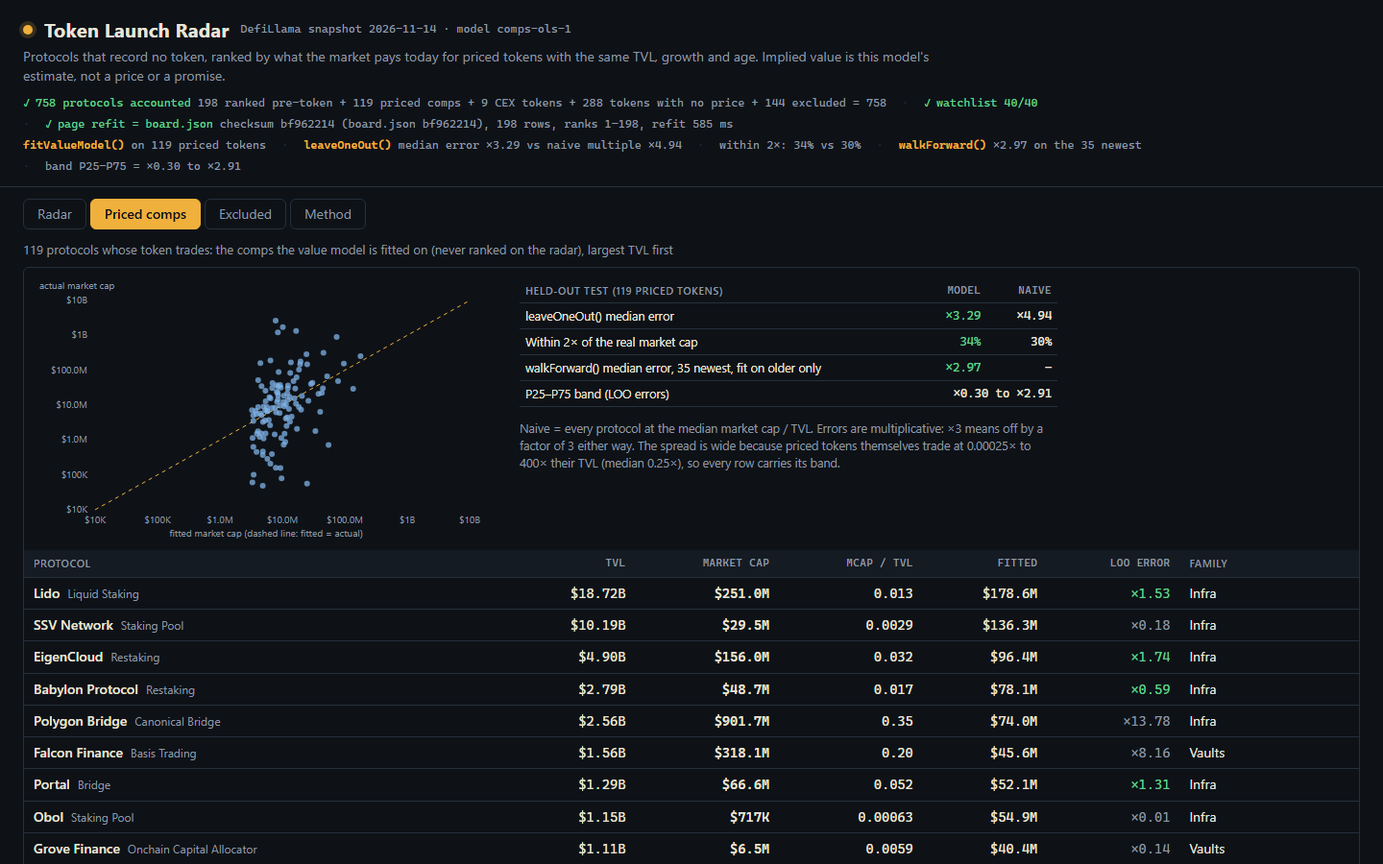
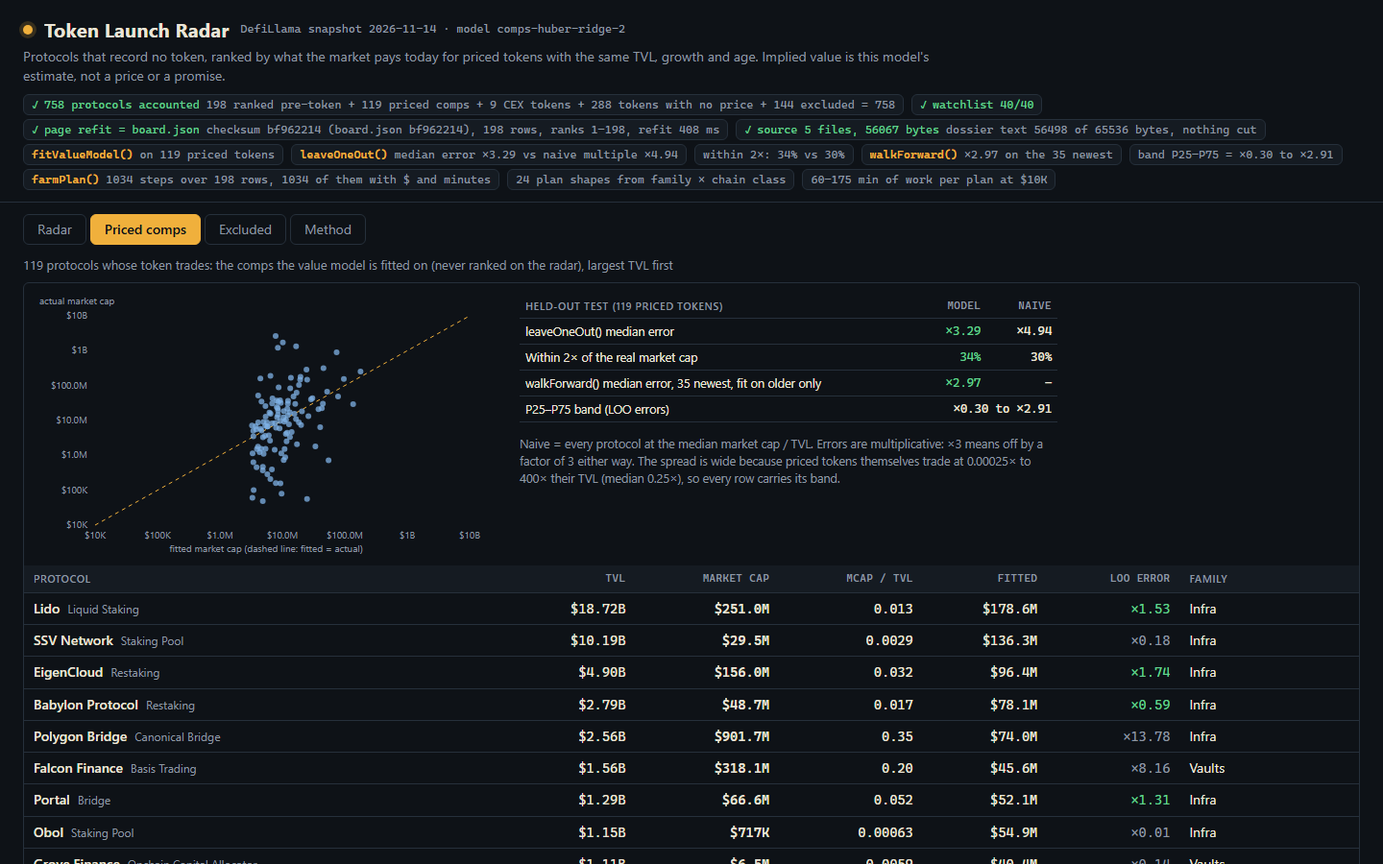
v2: farm plans by family and chain class, plan census strip, printed source-size proof; truth fixes (valueTerms heading, model label, chain-specific steps)

diff --git a/dashboard/b-farm.js b/dashboard/b-farm.js
@@ -1,83 +1,115 @@
-// b-farm.js: the farm planner. farmPlan(row, deposit) turns one radar row into six costed steps
-// (dollars and minutes each), an expected drop, a net, a break-even deposit and a verdict.
+// b-farm.js: the farm planner. farmPlan(row, deposit) builds one plan per protocol from two things the
+// snapshot gives: its family (from the category) and the chain class of its cheapest chain. Every step
+// carries dollars and minutes; the plan ends in an expected drop, a net, a break-even and a verdict.
 //
-// The snapshot holds no gas prices, no airdrop sizes and no season lengths, so those are ASSUMPTIONS,
-// named here, printed on the page, and the same for every protocol:
-//   GAS_USD        cost of one transaction per chain (the plan farms on the cheapest chain the row lists)
-//   FUND_USD       exchange withdrawal fee to get USDC onto that chain (and the same to leave)
-//   SEASON_DAYS    the points season the plan holds through (90 days, one action a week)
-//   FARMER_SHARE   share of the token's value that goes to depositors (5%)
-//   expected drop  = deposit / (TVL + deposit) x implied value x FARMER_SHARE x token odds
-//   HOUR_USD       your time ($20/h): cost = cash (gas + fees) + minutes / 60 x HOUR_USD
-//   net            = expected drop - cost;  break-even deposit = cost x TVL / (K - cost), K = value x share x odds
-//   verdict        Farm when the drop is at least 2x the cost, Marginal when it covers the cost, Skip otherwise.
+// Chain class -> how money gets in:     evm: approve + deposit (2 transactions)
+//   onetx: one signed transaction (Solana, Sui, Aptos, Starknet...)   ledger: add a USDC trustline first
+//   hl: USDC goes in through Hyperliquid's bridge from Arbitrum     btc: the position is BTC, not USDC
+//   app: any other chain: the protocol's own deposit flow (1 transaction at the default gas)
+// Family -> what keeps the position counted:
+//   Trading: weekly volume (perps: open + close a hedged pair; DEX: rebalance the LP range)
+//   Lending, Vaults, RWA & stables: balance held for the season, checked monthly
+//   Infra: the chain's own asset staked; unstaking waits the protocol's stated unbonding period
+//
+// ASSUMPTIONS (not in the snapshot; the same for every row, printed on the page):
+//   GAS_USD per chain, SEASON_DAYS 90, FARMER_SHARE 5% of the token's value to depositors,
+//   HOUR_USD $20 for your time, PERP_FEE 0.05% taker, SWAP_FEE 0.3%.
+//   expected drop = deposit / (TVL + deposit) x implied value x FARMER_SHARE x token odds
+//   cost = cash + minutes / 60 x HOUR_USD;  net = drop - cost;  break-even = cost x TVL / (K - cost)
+//   verdict: Farm when drop >= 2x cost, Marginal when drop >= cost, else Skip.
 (function (root) {
   'use strict';
 
   const GAS_USD = {
     Ethereum: 2.5, Bitcoin: 3, Tron: 1.5, Binance: 0.1, BSC: 0.1, Polygon: 0.02, Avalanche: 0.05, Solana: 0.01,
-    Sui: 0.01, Aptos: 0.01, TON: 0.05, Sonic: 0.02, Hyperliquid: 0.02, 'Hyperliquid L1': 0.02, Stellar: 0.01, Near: 0.01,
+    Sui: 0.01, Aptos: 0.01, TON: 0.05, Sonic: 0.02, 'Hyperliquid L1': 0.02, Stellar: 0.01, Near: 0.01,
     Arbitrum: 0.05, Base: 0.03, 'OP Mainnet': 0.05, Optimism: 0.05, Linea: 0.05, Scroll: 0.05, 'zkSync Era': 0.05, Blast: 0.05,
     Mantle: 0.05, Ink: 0.03, Unichain: 0.03, Katana: 0.03, Plasma: 0.02, Berachain: 0.03, Monad: 0.02, MegaETH: 0.02,
     Sei: 0.01, Celo: 0.01, Fantom: 0.01, xDai: 0.01, Gnosis: 0.01, Kava: 0.01, Flare: 0.01, Ripple: 0.01, Cardano: 0.2,
     Cronos: 0.05, Hemi: 0.05, Metis: 0.05, Moonbeam: 0.02, 'Robinhood Chain': 0.03, Arc: 0.02, 'X Layer': 0.02,
-    'Plume Mainnet': 0.02, Starknet: 0.05, Doge: 0.5, Litecoin: 0.05,
+    'Plume Mainnet': 0.02, Starknet: 0.05, Doge: 0.5, Litecoin: 0.05, Algorand: 0.01, Stacks: 0.5,
   };
-  const DEFAULT_GAS = 0.3;        // a chain not in the table
-  const FUND_USD = (chain) => (chain === 'Ethereum' || chain === 'Bitcoin' ? 4 : 1);
-  const SEASON_DAYS = 90, WEEKS = Math.round(SEASON_DAYS / 7);
-  const FARMER_SHARE = 0.05;
-  const HOUR_USD = 20;            // your time, priced into the cost: 125 minutes of work is not free
-  const PERP_FEE = 0.0005, SWAP_FEE = 0.003; // taker fee on weekly perp volume; swap fee to enter an LP
+  const EVM = new Set(['Ethereum', 'Binance', 'BSC', 'Polygon', 'Avalanche', 'Sonic', 'Arbitrum', 'Base', 'OP Mainnet', 'Optimism',
+    'Linea', 'Scroll', 'zkSync Era', 'Blast', 'Mantle', 'Ink', 'Unichain', 'Katana', 'Plasma', 'Berachain', 'Monad', 'MegaETH',
+    'Sei', 'Celo', 'Fantom', 'xDai', 'Gnosis', 'Flare', 'Cronos', 'Hemi', 'Metis', 'Moonbeam', 'Robinhood Chain', 'Arc', 'X Layer',
+    'Plume Mainnet', 'Manta', 'Ronin', 'Klaytn', 'RISE', 'Tempo', 'Reya Network', 'Fluent', 'CORE', 'RSK', 'BSquared', 'Mezo']);
+  const ONETX = new Set(['Solana', 'Sui', 'Aptos', 'TON', 'Near', 'Starknet', 'Tron']);
+  const LEDGER = new Set(['Stellar', 'Ripple', 'Algorand']);
+  const BTC_CHAINS = new Set(['Bitcoin', 'Stacks']);
+  const BTC_CATEGORIES = new Set(['Anchor BTC', 'Decentralized BTC', 'Restaked BTC']);
+  const DEFAULT_GAS = 0.3;
+  const SEASON_DAYS = 90, WEEKS = 13, MONTHS = 3;
+  const FARMER_SHARE = 0.05, HOUR_USD = 20, PERP_FEE = 0.0005, SWAP_FEE = 0.003;
   const DEFAULT_DEPOSIT = 10000;
 
-  const gasOf = (chain) => (chain in GAS_USD ? GAS_USD[chain] : DEFAULT_GAS);
+  const gasOf = (c) => (c in GAS_USD ? GAS_USD[c] : DEFAULT_GAS);
+  const classOf = (c) => (c === 'Hyperliquid L1' ? 'hl' : EVM.has(c) ? 'evm' : ONETX.has(c) ? 'onetx' : LEDGER.has(c) ? 'ledger' : BTC_CHAINS.has(c) ? 'btc' : 'app');
 
   // The cheapest chain the protocol lists (ties: the one it lists first).
   function cheapestChain(chains) {
-    if (!chains || chains.length === 0) return { chain: 'its main chain', gas: DEFAULT_GAS };
+    if (!chains || chains.length === 0) return { chain: 'its main chain', gas: DEFAULT_GAS, cls: 'app' };
     let best = chains[0];
     chains.forEach((c) => { if (gasOf(c) < gasOf(best)) best = c; });
-    return { chain: best, gas: gasOf(best) };
+    return { chain: best, gas: gasOf(best), cls: classOf(best) };
   }
 
   // No toLocaleString: main.ts and the browser must print the same bytes whatever the locale.
   const usd = (n) => '$' + (n >= 100 ? String(Math.round(n)).replace(/\B(?=(\d{3})+(?!\d))/g, ',') : n.toFixed(2));
 
-  // The family's entry action: what to do, and any fee beyond gas.
-  function entryAction(row, d, chain) {
-    const c = row.category || '', n = row.name;
-    if (row.family === 'Lending') return { text: `Supply ${usd(d)} USDC to ${n}'s main market on ${chain}; borrow nothing, so nothing can be liquidated.`, fee: 0 };
-    if (c === 'Dexs') return { text: `Swap half to the pool's other asset and add ${usd(d)} of liquidity to ${n}'s deepest USDC pool on ${chain}.`, fee: d / 2 * SWAP_FEE };
-    if (c === 'Derivatives') return { text: `Deposit ${usd(d)} USDC margin on ${n} (${chain}) and open a delta-neutral pair: a long and a short of equal size.`, fee: 0 };
-    if (row.family === 'Trading') return { text: `Deposit ${usd(d)} USDC into ${n} on ${chain} and make one trade.`, fee: 0 };
-    if (row.family === 'Vaults') return { text: `Deposit ${usd(d)} USDC into ${n}'s largest USDC vault on ${chain} and keep the vault shares.`, fee: 0 };
-    if (row.family === 'RWA & stables') return { text: `Mint or buy ${usd(d)} of ${n}'s yield-bearing asset with USDC on ${chain} and hold it.`, fee: 0 };
-    if (row.family === 'Infra') return { text: `Stake or deposit ${usd(d)} of the asset ${n} accepts on ${chain} and keep the receipt.`, fee: 0 };
-    return { text: `Deposit ${usd(d)} USDC into ${n}'s app on ${chain} and keep the position open.`, fee: 0 };
-  }
-
-  // farmPlan: one row, one deposit in, six steps out, each {step, do, usd, min}.
+  // farmPlan: one row and one deposit in; the plan's steps {step, do, usd, min}, totals and verdict out.
   function farmPlan(row, deposit) {
-    const d = deposit || DEFAULT_DEPOSIT, { chain, gas } = cheapestChain(row.chains), fund = FUND_USD(chain);
-    const entry = entryAction(row, d, chain);
-    const weekly = row.category === 'Derivatives' ? d * PERP_FEE * WEEKS : 0;
-    const steps = [
-      { step: 'Fund', do: `Withdraw ${usd(d)} USDC from an exchange to a fresh wallet on ${chain} (${row.chains.length > 1 ? `the cheapest of its ${row.chains.length} chains` : 'its only chain'}).`, usd: fund, min: 10 },
-      { step: 'Enter', do: entry.text + ' Two transactions: approve, then deposit.', usd: 2 * gas + entry.fee, min: 10 },
-      { step: 'Qualify', do: `Make one qualifying action a week for ${WEEKS} weeks (top up, claim or ${row.category === 'Derivatives' ? 'roll the pair once, volume = deposit' : 'restake'}), one transaction each.`, usd: WEEKS * gas + weekly, min: WEEKS * 5 },
-      { step: 'Track', do: `Check ${row.name}'s own points or rewards page once a month for the ${SEASON_DAYS}-day season and log the balance.`, usd: 0, min: 15 },
-      { step: 'Exit', do: `Withdraw the position and send the USDC back to the exchange.`, usd: 2 * gas + fund, min: 15 },
-      { step: 'Claim', do: `If a token is announced, claim only through the link on ${row.name}'s own site; never sign a transfer to claim.`, usd: gas, min: 10 },
-    ];
+    const d = deposit || DEFAULT_DEPOSIT, { chain, gas, cls } = cheapestChain(row.chains), n = row.name;
+    const btc = cls === 'btc' || BTC_CATEGORIES.has(row.category), asset = btc ? 'BTC' : row.family === 'Infra' ? `${chain}'s staking asset` : 'USDC';
+    const steps = [], add = (step, text, cost, min) => steps.push({ step, do: text, usd: cost, min });
+    const fundFee = chain === 'Ethereum' || btc ? 4 : 1;
+
+    // 1. Money onto the chain, by chain class.
+    if (cls === 'hl') {
+      add('Fund', `Withdraw ${usd(d)} USDC from an exchange to Arbitrum, then send it through Hyperliquid's bridge to your Hyperliquid account.`, 1 + GAS_USD.Arbitrum, 15);
+    } else if (cls === 'app') {
+      add('Fund', `Move ${usd(d)} onto ${chain} in the asset its apps take, by exchange withdrawal where one exists, else the chain's own bridge.`, fundFee, 15);
+    } else {
+      add('Fund', `Withdraw ${usd(d)} of ${btc ? 'BTC' : 'USDC'} from an exchange to a fresh wallet on ${chain} (${row.chains.length > 1 ? `cheapest of its ${row.chains.length} chains` : 'its only chain'}).`, fundFee, 10);
+    }
+    if (cls === 'ledger') add('Trustline', `Add the USDC trustline (opt-in) to the wallet before funds arrive; the chain locks a small reserve.`, 0.5, 5);
+    if (asset.endsWith('staking asset')) add('Swap', `Swap the USDC to ${asset} on a DEX on ${chain}.`, d * SWAP_FEE + gas, 5);
+    if (row.family === 'RWA & stables') add('Onboard', `Complete ${n}'s issuer onboarding (KYC or wallet whitelist) if its app asks for it before minting.`, 0, 30);
+
+    // 2. The entry, by family; transactions by chain class.
+    const tx = cls === 'evm' ? 2 : 1;
+    const how = cls === 'evm' ? ' Two transactions: approve, then deposit.' : cls === 'app' ? " Follow the app's deposit flow." : ' One signed transaction.';
+    if (row.category === 'Dexs') {
+      add('Enter', `Swap into the two assets of ${n}'s deepest pool on ${chain} and add ${usd(d)} of liquidity.${how}`, d * SWAP_FEE + (tx + 1) * gas, 15);
+      add('Rebalance', `Each week, check the LP range and re-center it if price left it: about ${WEEKS} checks, half needing 2 transactions.`, WEEKS * gas, WEEKS * 8);
+    } else if (row.category === 'Derivatives') {
+      add('Enter', `Deposit ${usd(d)} USDC margin on ${n} (${chain}).${how}`, tx * gas, 10);
+      add('Volume', `Each week, open and close a delta-neutral pair (long and short, ${usd(d / 2)} each): ${usd(2 * d)} of taker volume a week.`, WEEKS * 2 * d * PERP_FEE, WEEKS * 10);
+    } else if (row.family === 'Trading') {
+      add('Enter', `Deposit ${usd(d)} USDC into ${n} on ${chain}.${how}`, tx * gas, 10);
+      add('Activity', `Each week, make one trade of about ${usd(d / 10)} so the account shows use, not only a balance.`, WEEKS * (d / 10 * SWAP_FEE + gas), WEEKS * 5);
+    } else {
+      const verb = row.family === 'Lending' ? `Supply ${usd(d)} ${asset} to ${n}'s main market on ${chain}; borrow nothing, so nothing can be liquidated.`
+        : row.family === 'Vaults' ? `Deposit ${usd(d)} ${asset} into ${n}'s largest ${asset} vault on ${chain} and keep the shares.`
+        : row.family === 'RWA & stables' ? `Mint or buy ${usd(d)} of ${n}'s yield-bearing asset with USDC on ${chain} and hold it.`
+        : row.family === 'Infra' ? `Stake ${usd(d)} of ${asset} through ${n} on ${chain} and keep the receipt.`
+        : `Deposit ${usd(d)} ${asset} into ${n}'s app on ${chain} and keep the position open.`;
+      add('Enter', verb + how, tx * gas, 10);
+      add('Hold', `Hold the balance for the ${SEASON_DAYS}-day season; once a month, check ${n}'s app for a points or rewards balance and log it.`, 0, MONTHS * 5);
+    }
+
+    // 3. Out, and the claim.
+    const wait = row.family === 'Infra' ? ` Unstaking waits the protocol's stated unbonding period.` : row.family === 'Vaults' ? ' Some vaults queue withdrawals for days.' : '';
+    const back = asset.endsWith('staking asset') || row.category === 'Dexs' ? ', swap back to USDC' : '';
+    add('Exit', `Withdraw the position${back} and send the ${btc ? 'BTC' : 'USDC'} back to the exchange.${wait}`, tx * gas + fundFee + (back ? d * SWAP_FEE : 0), 15);
+    add('Claim', `If a token is announced, claim only through the link on ${n}'s own site; never sign a transfer to claim.`, gas, 10);
+
     const cash = steps.reduce((s, x) => s + x.usd, 0), minutes = steps.reduce((s, x) => s + x.min, 0);
     const cost = cash + minutes / 60 * HOUR_USD;
     const K = row.implied_value_usd * FARMER_SHARE * row.token_odds;
-    const drop = d / (row.tvl_usd + d) * K;
-    const net = drop - cost;
+    const drop = d / (row.tvl_usd + d) * K, net = drop - cost;
     const breakEven = K > cost ? cost * row.tvl_usd / (K - cost) : Infinity;
     const verdict = drop >= 2 * cost ? 'Farm' : drop >= cost ? 'Marginal' : 'Skip';
-    return { chain, deposit: d, steps, cash, cost, minutes, days: SEASON_DAYS, drop, net, breakEven, verdict };
+    return { chain, cls, asset, deposit: d, steps, cash, cost, minutes, days: SEASON_DAYS, drop, net, breakEven, verdict };
   }
 
   // The plan as board.json's farm_steps: each step with its cost and time, then the verdict line.
@@ -88,6 +120,21 @@
     return lines;
   }
 
-  const FarmModel = { GAS_USD, DEFAULT_GAS, SEASON_DAYS, FARMER_SHARE, DEFAULT_DEPOSIT, cheapestChain, farmPlan, planStrings, usd };
+  // planCensus: the proof line. Every step of every row counted, each with $ and minutes; how many
+  // distinct plan shapes (step lists) the families and chain classes produce.
+  function planCensus(rows, deposit) {
+    let steps = 0, priced = 0;
+    const shapes = new Set(), mins = [];
+    rows.forEach((r) => {
+      const p = farmPlan(r, deposit);
+      steps += p.steps.length;
+      priced += p.steps.filter((s) => Number.isFinite(s.usd) && s.min > 0).length;
+      shapes.add(p.cls + ':' + p.steps.map((s) => s.step).join('>'));
+      mins.push(p.minutes);
+    });
+    return { rows: rows.length, steps, priced, shapes: shapes.size, minMin: Math.min(...mins), maxMin: Math.max(...mins) };
+  }
+
+  const FarmModel = { GAS_USD, DEFAULT_GAS, SEASON_DAYS, FARMER_SHARE, HOUR_USD, DEFAULT_DEPOSIT, cheapestChain, farmPlan, planStrings, planCensus, usd };
   if (typeof module === 'object' && module.exports) module.exports = FarmModel; else root.FarmModel = FarmModel;
 })(typeof window !== 'undefined' ? window : globalThis);

diff --git a/dashboard/c-app.js b/dashboard/c-app.js
@@ -61,7 +61,7 @@
   // ---- columns: key, header, sort value, cell html
   const COLS = [
     { k: 'rank', h: '#', v: (r) => r.rank, c: (r) => `<td class="num rank">${r.rank}</td>` },
-    { k: 'name', h: 'Protocol', v: (r) => r.name.toLowerCase(), c: (r) => `<td><b>${esc(r.name)}</b>${r.watch ? '<span class="tag">watchlist</span>' : ''}<small>${esc(r.category || 'no category')} · ${esc(r.chains.slice(0, 2).join(', '))}${r.chains.length > 2 ? ' +' + (r.chains.length - 2) : ''}</small></td>` },
+    { k: 'name', h: 'Protocol', v: (r) => r.name.toLowerCase(), c: (r) => `<td><b>${esc(r.name)}</b>${r.watch ? '<span class="tag">watchlist</span>' : ''}<small>${esc(r.category || 'no category')} · ${esc(r.chains[0] || '')}${r.chains.length > 1 ? ' +' + (r.chains.length - 1) : ''}</small></td>` },
     { k: 'tvl', h: 'TVL', v: (r) => r.tvl_usd, c: (r) => `<td class="num">${money(r.tvl_usd)}</td>` },
     { k: 'g7', h: '7d', v: (r) => r.change_7d ?? -1e9, c: (r) => `<td class="num ${signCls(r.change_7d)}">${pct(r.change_7d)}</td>` },
     { k: 'age', h: 'No token for', v: (r) => r.age_days ?? -1, c: (r) => `<td class="num">${age(r.age_days)}</td>` },
@@ -69,6 +69,7 @@
     { k: 'band', h: 'P25–P75', v: (r) => r.p75_usd, c: (r) => `<td class="num dim">${money(r.p25_usd)}–${money(r.p75_usd)}</td>` },
     { k: 'odds', h: 'Token odds', v: (r) => r.token_odds, c: (r) => `<td class="num"><span class="bar" style="--w:${Math.round(r.token_odds * 100)}%"></span>${Math.round(r.token_odds * 100)}%</td>` },
     { k: 'net', h: 'Farm net', v: (r) => planOf(r).net, c: (r) => { const p = planOf(r); return `<td class="num"><span class="pill ${p.verdict}">${p.verdict}</span> <span class="${p.net >= 0 ? 'up' : 'down'}">${money(p.net)}</span></td>`; } },
+    { k: 'plan', h: 'Plan', v: (r) => planOf(r).minutes, c: (r) => { const p = planOf(r); return `<td class="num dim">${p.steps.length} steps · ${p.minutes}m</td>`; } },
     { k: 'be', h: 'Break-even', v: (r) => planOf(r).breakEven, c: (r) => `<td class="num dim">${money(planOf(r).breakEven)}</td>` },
   ];
 
@@ -82,13 +83,18 @@
     return rows.sort((a, b) => { const x = col.v(a), y = col.v(b); return (x < y ? -1 : x > y ? 1 : 0) * state.dir || a.rank - b.rank; });
   }
 
+  const CLASS_NAME = { evm: 'EVM: approve + deposit', onetx: 'one signed transaction', ledger: 'trustline first', hl: "via Hyperliquid's bridge", btc: 'BTC position', app: "the app's own flow" };
+
   // ---- strips
   function renderStrips() {
     $('#integrity').innerHTML = [
       `<span class="ok">${A.total} protocols accounted</span> ${A.radar} ranked pre-token + ${A.comp} priced comps + ${A.traded_cex} CEX tokens + ${A.token_unpriced} tokens with no price + ${A.excluded} excluded = ${A.radar + A.comp + A.traded_cex + A.token_unpriced + A.excluded}`,
       `<span class="ok">watchlist ${A.watch_covered}/${A.watch_total}</span>`,
       `<span class="${matches ? 'ok' : 'bad'}">${matches ? 'page refit = board.json' : 'MISMATCH with board.json'}</span> checksum ${pageSum} (board.json ${esc(BOARD.checksum || 'missing')}), ${R.rows.length} rows, ranks 1–${R.rows.length}, refit ${refitMs} ms`,
+      `<span class="${BOARD.text_whole ? 'ok' : 'bad'}">source ${BOARD.src_files} files, ${BOARD.src_bytes} bytes</span> dossier text ${BOARD.text_bytes} of 65536 bytes, ${BOARD.text_whole ? 'nothing cut' : 'CUT'}`,
     ].map((s) => `<li>${s}</li>`).join('');
+    const C = F.planCensus(R.rows, state.dep);
+    $('#farmstrip').innerHTML = `<li><b>farmPlan()</b> ${C.steps} steps over ${C.rows} rows, ${C.priced} of them with $ and minutes</li><li>${C.shapes} plan shapes from family × chain class</li><li>${C.minMin}–${C.maxMin} min of work per plan at ${money(state.dep)}</li>`;
     $('#modelstrip').innerHTML = [
       `<b>fitValueModel()</b> on ${V.n} priced tokens`,
       `<b>leaveOneOut()</b> median error ${times(V.loo_mad)} vs naive multiple ${times(V.naive_mad)}`,
@@ -158,7 +164,8 @@
       <tr><td>7-day growth (÷100, clamped −50%..+100%)</td><td class="num">${b[2].toFixed(3)}</td><td class="num">+100% = ${times(b[2])}</td></tr>
       <tr><td>log10(1 + years tracked), centred</td><td class="num">${b[3].toFixed(3)}</td><td class="num">2 y vs 0.5 y = ${times(b[3] * (Math.log10(3) - Math.log10(1.5)))}</td></tr>${fam}
       <tr><td>Validation: leave-one-out / naive / walk-forward median error</td><td class="num" colspan="2">${times(V.loo_mad)} / ${times(V.naive_mad)} / ${times(V.wf_mad)}</td></tr>
-      <tr><td>Farm assumptions (not in the snapshot)</td><td colspan="2">gas per chain table, ${F.SEASON_DAYS}-day season, ${F.FARMER_SHARE * 100}% of value to depositors, your time at $20/h</td></tr>
+      <tr><td>Farm assumptions (not in the snapshot)</td><td colspan="2">gas per chain table, ${F.SEASON_DAYS}-day season, ${F.FARMER_SHARE * 100}% of value to depositors, your time at $${F.HOUR_USD}/h</td></tr>
+      <tr><td>Farm plan shape</td><td colspan="2">family sets the steps (Trading: weekly volume or LP rebalance; Lending, Vaults, RWA: held balance; Infra: staked asset); chain class sets the transactions (${Object.values(CLASS_NAME).join('; ')})</td></tr>
       <tr><td>Unknown listing date</td><td colspan="2">takes the comps' median age, ${R.median_age_days} days, and the row shows "unknown"</td></tr></tbody>`;
   }
 
@@ -174,13 +181,13 @@
       <p class="eyebrow">Rank ${r.rank} of ${R.rows.length}${r.watch ? ' · on the watchlist' : ''} · records no token</p>
       <h2>${esc(r.name)}</h2><p class="sub">${esc(r.category || 'no category')} · ${esc(r.family)} · ${esc(r.chains.join(', '))}</p>
       <div class="kpis"><div><small>Implied value</small><b>${money(r.implied_value_usd)}</b></div><div><small>P25–P75</small><b>${money(r.p25_usd)}–${money(r.p75_usd)}</b></div><div><small>Token odds</small><b>${Math.round(r.token_odds * 100)}%</b></div></div>
-      <h3>impliedValue(), worked from the snapshot</h3>
+      <h3>valueTerms(): the implied value, worked from the snapshot</h3>
       <table class="mini"><thead><tr><th>Term</th><th class="num">×</th><th class="num">Running</th><th>Input</th></tr></thead><tbody>
       <tr><td>Typical priced comp</td><td class="num"></td><td class="num">${money(base)}</td><td class="dim">fit on ${V.n} tokens</td></tr>
       ${step('TVL', t.tvl, money(r.tvl_usd))}${step('7-day growth', t.growth, pct(r.change_7d))}${step('Time with no token', t.age, age(r.age_days))}${step('Family', t.family, esc(r.family))}
       </tbody></table>
       <p class="dim">= ${money(r.implied_value_usd)}, the value board.json carries for rank ${r.rank}. Nearest priced comps: ${r.peers.map((c) => `${esc(c.name)} (TVL ${money(c.tvl_usd)}, mcap ${money(c.mcap_usd)})`).join('; ')}.</p>
-      <h3>farmPlan() at ${money(p.deposit)} on ${esc(p.chain)} <span class="pill ${p.verdict}">${p.verdict}</span></h3>
+      <h3>farmPlan() at ${money(p.deposit)} on ${esc(p.chain)} (${CLASS_NAME[p.cls]}), ${esc(p.asset)} <span class="pill ${p.verdict}">${p.verdict}</span></h3>
       <table class="mini"><thead><tr><th>Step</th><th>Do</th><th class="num">Cost</th><th class="num">Time</th></tr></thead><tbody>
       ${p.steps.map((s) => `<tr><td>${s.step}</td><td>${esc(s.do)}</td><td class="num">${money(s.usd)}</td><td class="num">${s.min} min</td></tr>`).join('')}
       <tr class="tot"><td>Total</td><td>${p.minutes} min of work at $20/h + ${money(p.cash)} cash, over ${p.days} days</td><td class="num">${money(p.cost)}</td><td class="num">${p.minutes} min</td></tr></tbody></table>
@@ -190,6 +197,7 @@
   // ---- render everything from state
   function render() {
     writeHash();
+    renderStrips();
     document.querySelectorAll('[data-tab]').forEach((b) => b.setAttribute('aria-selected', String(b.dataset.tab === state.tab)));
     $('#filters').hidden = state.tab !== 'radar';
     $('#q').value = state.q; $('#fam').value = state.fam; $('#chain').value = state.chain; $('#verdict').value = state.verdict;
@@ -203,7 +211,6 @@
     $('#asof').textContent = `DefiLlama snapshot ${SNAP.as_of} · model ${R.version}`;
     $('#fam').innerHTML = '<option value="">All families</option>' + families.map((f) => `<option>${esc(f)}</option>`).join('');
     $('#chain').innerHTML = '<option value="">All chains</option>' + chains.map((c) => `<option>${esc(c)}</option>`).join('');
-    renderStrips();
     document.addEventListener('click', (e) => {
       const t = e.target.closest('[data-sort],[data-tab],[data-close],tr[data-slug]');
       if (!t) return;

diff --git a/main.ts b/main.ts
@@ -79,8 +79,6 @@ if (rows[0].implied_value_usd === rows[rows.length - 1].implied_value_usd) fail(
 mkdirSync(out, { recursive: true });
 const checksum = RadarModel.boardChecksum(rows);
 writeFileSync(join(out, 'board.json'), JSON.stringify({ model: radar.version, as_of: radar.as_of, checksum, rows }) + '\n');
-// data.js: the raw snapshot (the page refits the model from it) and board.json's checksum to match against.
-writeFileSync(join(out, 'data.js'), `window.RADAR_SNAPSHOT=${JSON.stringify(snapshot)};\nwindow.RADAR_BOARD=${JSON.stringify({ checksum, rows: rows.length })};\n`);
 
 function copyFiles(from: string, to: string): string[] {
   mkdirSync(to, { recursive: true });
@@ -92,7 +90,20 @@ copyFiles(join(here, 'dashboard'), join(out, 'dashboard'));
 const shots = copyFiles(join(here, 'screenshots'), join(out, 'screenshots'));
 if (shots.length < 3 || shots.length > 4) fail(`screenshots/ holds ${shots.length} images, not 3 or 4`);
 
-writeFileSync(join(out, 'dossier.json'), buildDossier(out, { text_max_bytes: 65_536, screenshots: { max: 4, max_bytes: 524_288 }, dashboard: { max_files: 400, max_bytes: 4_194_304 } }));
+const dossier = buildDossier(out, { text_max_bytes: 65_536, screenshots: { max: 4, max_bytes: 524_288 }, dashboard: { max_files: 400, max_bytes: 4_194_304 } });
+writeFileSync(join(out, 'dossier.json'), dossier);
+
+// data.js sits outside dashboard/, so it is not in the dossier: written after it, it can state the dossier's
+// own text size. It also carries the raw snapshot (the page refits the model) and board.json's checksum.
+const text: string = JSON.parse(Buffer.from(dossier).toString('utf8')).text;
+const dash = readdirSync(join(out, 'dashboard'));
+const source = {
+  checksum, rows: rows.length, src_files: dash.length,
+  src_bytes: dash.reduce((s, n) => s + statSync(join(out, 'dashboard', n)).size, 0),
+  text_bytes: Buffer.byteLength(text), text_whole: !text.includes('[Cut at '), // buildDossier's cut line
+
+};
+writeFileSync(join(out, 'data.js'), `window.RADAR_SNAPSHOT=${JSON.stringify(snapshot)};\nwindow.RADAR_BOARD=${JSON.stringify(source)};\n`);
 
 const a = radar.accounting;
 process.stdout.write(`token radar: ${a.total} protocols = ${a.radar} ranked + ${a.comp} priced comps + ${a.traded_cex} CEX tokens + ${a.token_unpriced} unpriced tokens + ${a.excluded} excluded; watchlist ${a.watch_covered}/${a.watch_total}; checksum ${checksum}\n`);

diff --git a/dashboard/index.html b/dashboard/index.html
@@ -6,8 +6,10 @@
      watchlist coverage in the integrity strip (top of every screenshot).
   2. Value model: a-model.js fitValueModel() / leaveOneOut() / walkForward() / tokenOdds(); the model
      strip prints the held-out errors; the detail drawer works one row's value term by term.
-  3. Farm plans: b-farm.js farmPlan(): six steps, each with $ and minutes, then drop, net, break-even
-     and a Farm / Marginal / Skip verdict; the deposit slider re-prices all of them.
+  3. Farm plans: b-farm.js farmPlan(): steps set by the protocol's family and its chain class, each
+     with $ and minutes, then drop, net, break-even and a Farm / Marginal / Skip verdict; planCensus()
+     counts every step in the third strip; the deposit slider re-prices all of them.
+  Source: every file is shown whole; the integrity strip prints the dossier text's bytes.
   4. Page: c-app.js sortable headers (aria-sort), search, family / chain / verdict / watchlist filters,
      tabs (radar, priced comps, excluded, method), detail drawer, state in the URL hash.
 -->
@@ -24,6 +26,7 @@
   <p class="lede">Protocols that record no token, ranked by what the market pays today for priced tokens with the same TVL, growth and age. Implied value is this model's estimate, not a price or a promise.</p>
   <ul id="integrity" class="strip" aria-label="Integrity checks"></ul>
   <ul id="modelstrip" class="strip model" aria-label="Model validation"></ul>
+  <ul id="farmstrip" class="strip model" aria-label="Farm plan census"></ul>
 </header>
 <main>
   <nav class="tabs" role="tablist">

diff --git a/dashboard/z-style.css b/dashboard/z-style.css
@@ -23,8 +23,8 @@ button, input, select { font: inherit; color: inherit; }
 .brand .dim { font-size: 12px; font-family: var(--mono); }
 .dot { width: 10px; height: 10px; border-radius: 50%; background: var(--amber); box-shadow: 0 0 0 4px rgba(240, 176, 60, 0.18); }
 .lede { margin: var(--s1) 0 var(--s2); color: var(--dim); max-width: 980px; }
-.strip { list-style: none; margin: var(--s1) 0; padding: 0; display: flex; flex-wrap: wrap; gap: var(--s1) var(--s4); font: 12px/1.5 var(--mono); color: var(--dim); }
-.strip li + li::before { content: "\00b7"; margin-right: var(--s4); color: var(--line); }
+.strip { list-style: none; margin: var(--s1) 0; padding: 0; display: flex; flex-wrap: wrap; gap: var(--s1) var(--s2); font: 12px/1.5 var(--mono); color: var(--dim); }
+.strip li { background: var(--panel); border: 1px solid var(--line); border-radius: var(--r); padding: 1px 8px; }
 .strip .ok { color: var(--green); }
 .strip .ok::before { content: "\2713"; margin-right: 6px; }
 .strip .bad { color: var(--red); font-weight: 700; }

diff --git a/dashboard/a-model.js b/dashboard/a-model.js
@@ -12,7 +12,7 @@
 (function (root) {
   'use strict';
 
-  const MODEL_VERSION = 'comps-ols-1';
+  const MODEL_VERSION = 'comps-huber-ridge-2';
   const DAY = 86400000;
   const RIDGE = 5, HUBER = 0.5;
   const GROWTH_MIN = -0.5, GROWTH_MAX = 1.0;
